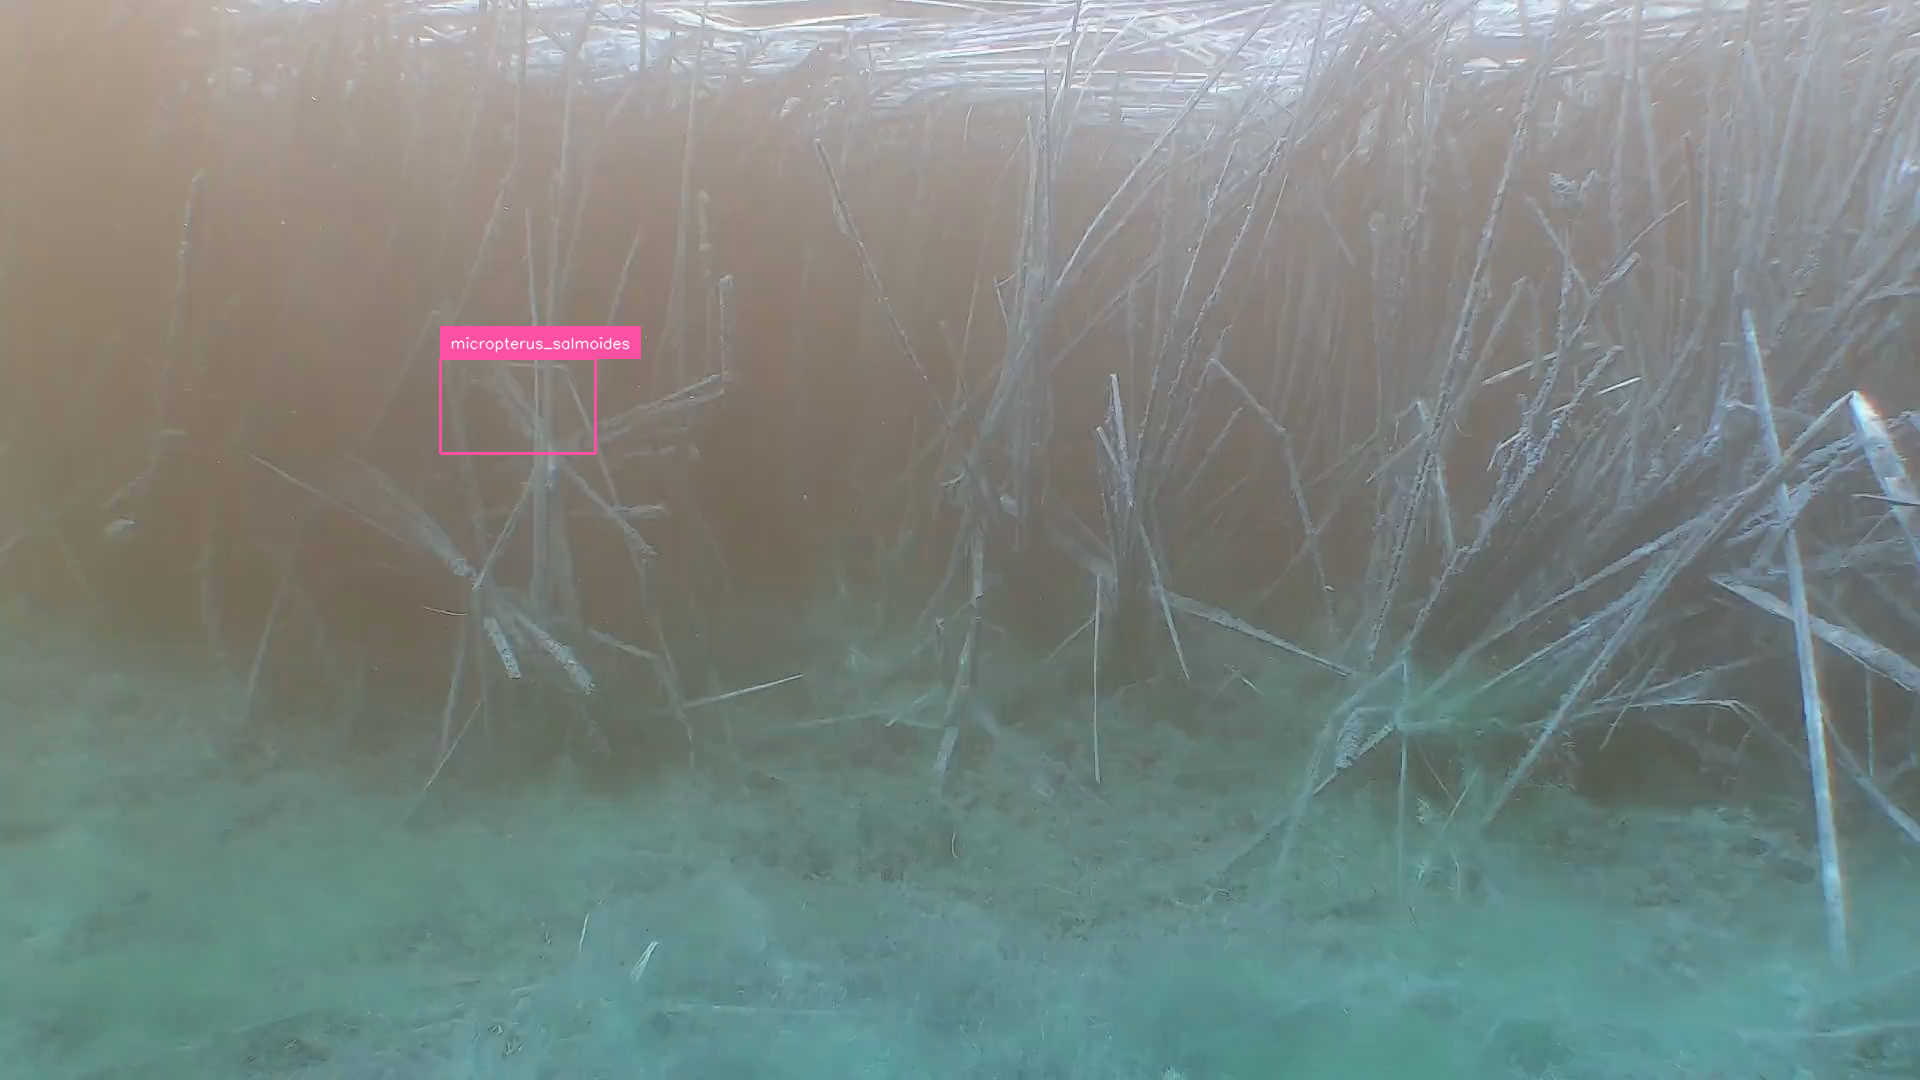
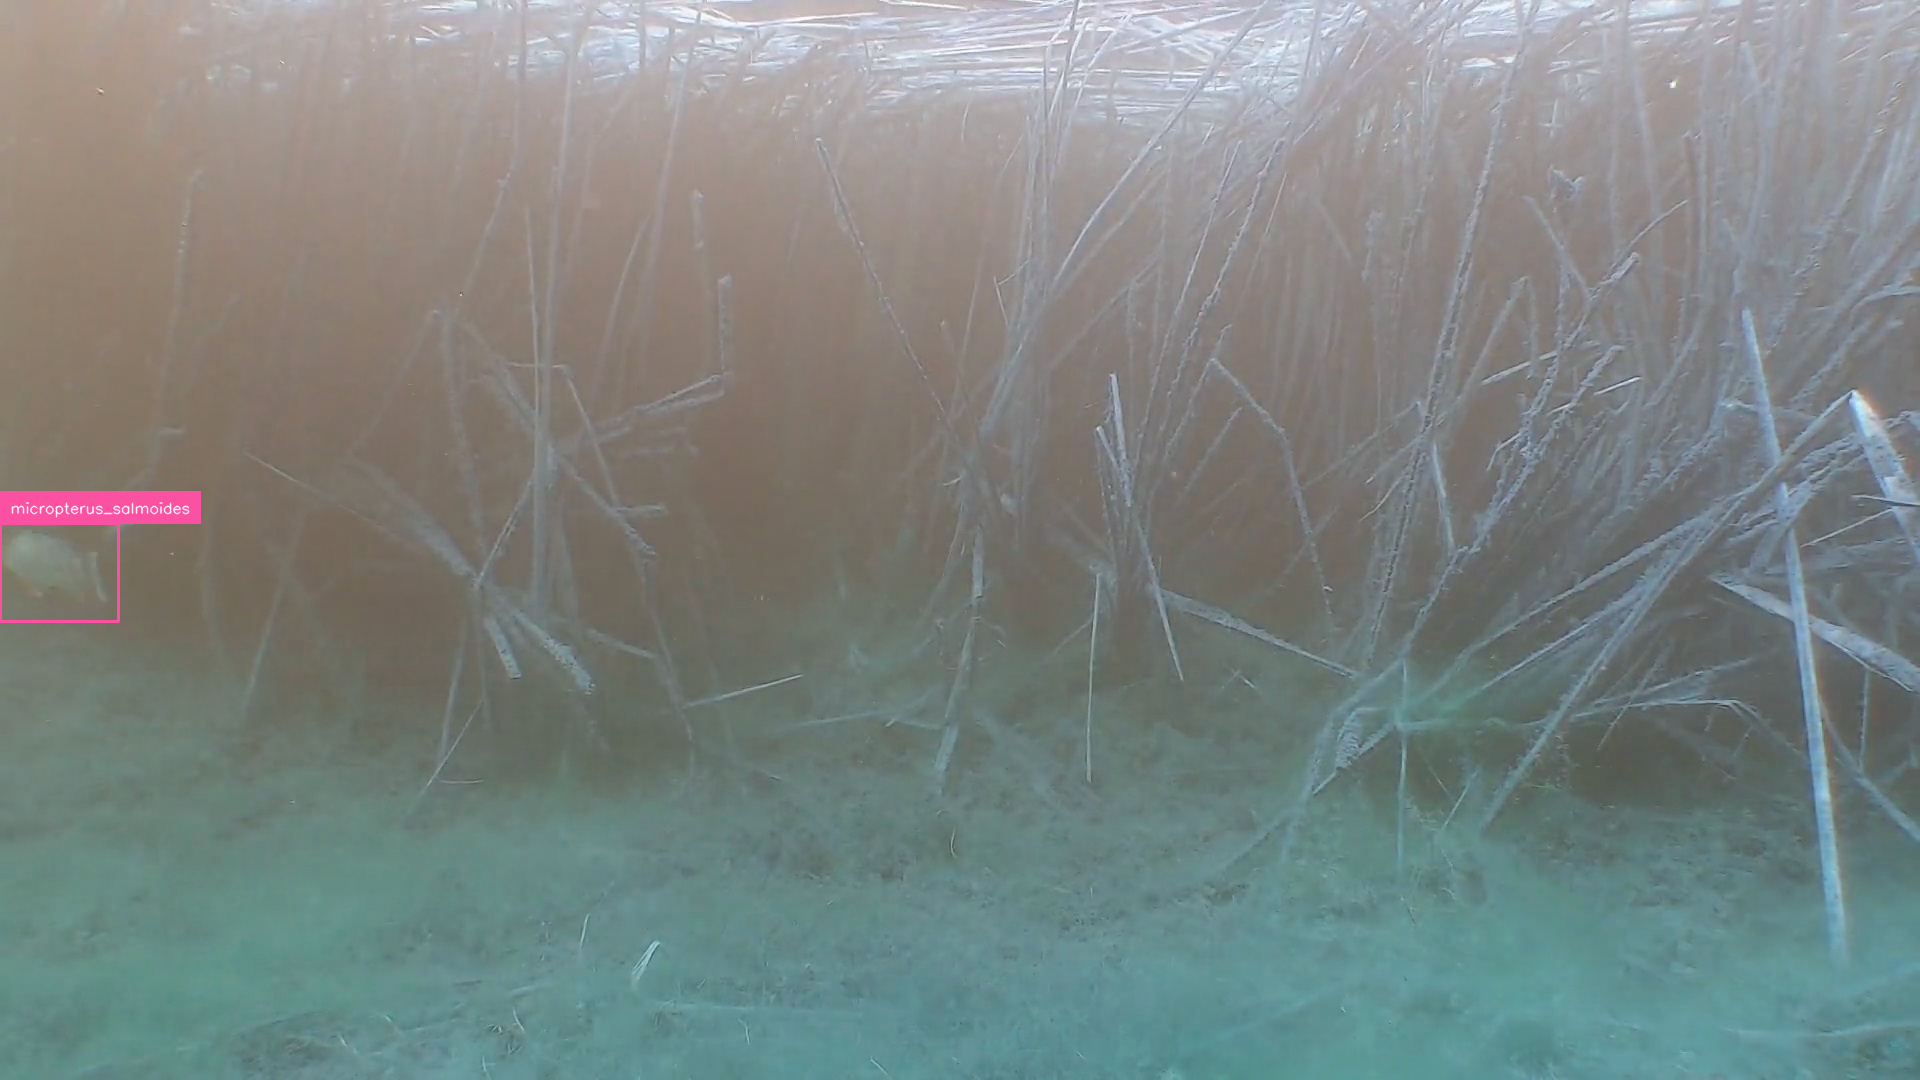
fix frame/annotation mismatch

diff --git a/data_preview/visualize_viame_fishtrack.py b/data_preview/visualize_viame_fishtrack.py
@@ -11,39 +11,72 @@ import cv2
 
 from utils import download_and_extract_zip
 
+TESTING = False
 
-class VideoFrameExtractor:
-    @staticmethod
-    def build_image_id(video_path: Path, timestamp_str: str) -> str:
-        """Generate a unique identifier for a video frame."""
-        return f"{video_path.stem}_{timestamp_str}"
 
-    @classmethod
-    def extract_frame(cls, frames_path: Path, video_path: Path, timestamp_str: str):
-        """Extract a frame from a video at the specified timestamp."""
-        frames_path.mkdir(parents=True, exist_ok=True)
+def build_image_id(video_path: Path, timestamp_str: str) -> str:
+    """Generate a unique identifier for a video frame."""
+    return f"{video_path.stem}_{timestamp_str}"
 
-        timestamp = datetime.strptime(timestamp_str, "%H:%M:%S.%f")
-        image_id = cls.build_image_id(video_path, timestamp_str)
-        output_path = frames_path / f"{image_id}.jpg"
 
-        print(f"Extracting frame from {video_path} at {timestamp}")
-
-        cap = cv2.VideoCapture(video_path)
-        cap.set(cv2.CAP_PROP_POS_MSEC, timestamp.timestamp() * 1000)
-        ret, frame = cap.read()
-        if not ret:
-            raise ValueError(f"Failed to read frame from {video_path}")
+def timestamp_to_milliseconds(timestamp_str: str) -> int:
+    """
+    Convert a timestamp string in format HH:MM:SS.ffffff to milliseconds.
+    
+    Args:
+        timestamp_str: String in format "HH:MM:SS.ffffff"
         
-        height, width, _ = frame.shape
-        cv2.imwrite(str(output_path), frame)
-        cap.release()
+    Returns:
+        Total milliseconds
+    
+    Example:
+        "00:01:49.900000" -> 109900 (milliseconds)
+    """
+    # Parse the timestamp string
+    hours, minutes, seconds = timestamp_str.split(":")
+    seconds, microseconds = seconds.split(".")
+    
+    # Convert to integers
+    hours = int(hours)
+    minutes = int(minutes)
+    seconds = int(seconds)
+    # If microseconds part has fewer than 6 digits, pad with zeros
+    microseconds = int(microseconds.ljust(6, "0"))
+    
+    # Calculate total milliseconds
+    total_milliseconds = (
+        hours * 3600 * 1000 +    # hours to ms
+        minutes * 60 * 1000 +    # minutes to ms
+        seconds * 1000 +         # seconds to ms
+        microseconds // 1000     # microseconds to ms (integer division)
+    )
+    
+    return total_milliseconds
+    
 
-        print(f"Saved frame to {output_path}")
-        return output_path, height, width
+def extract_frame(frames_path: Path, video_path: Path, timestamp_str: str, frame_id: str):
+    """Extract a frame from a video at the specified timestamp."""
+    filename = f"{frame_id}.jpg"
+    output_path = frames_path / filename
+    frames_path.mkdir(parents=True, exist_ok=True)
+
+    milliseconds = timestamp_to_milliseconds(timestamp_str)
+    print(f"Extracting frame from {video_path} at {timestamp_str}, {milliseconds} ms")
+    cap = cv2.VideoCapture(video_path)
+    cap.set(cv2.CAP_PROP_POS_MSEC, milliseconds)
+    ret, frame = cap.read()
+    if not ret:
+        raise ValueError(f"Failed to read frame from {video_path}")
+    
+    height, width, _ = frame.shape
+    cv2.imwrite(str(output_path), frame)
+    cap.release()
+
+    print(f"Saved frame to {output_path}")
+    return filename, height, width  # Return only the filename
 
 
-def viame_to_coco(camera_path: Path, output_dir: Path):
+def viame_to_coco(camera_path: Path, images_dir: Path):
     """Convert VIAME annotations to COCO format."""
     csv_path = camera_path / "annotations.viame.csv"
     video_path = camera_path / f"{camera_path.name}.mp4"
@@ -54,7 +87,7 @@ def viame_to_coco(camera_path: Path, output_dir: Path):
     # Load the CSV file - skip first row as it contains metadata
     df = pd.read_csv(csv_path, skiprows=lambda x: x in [1])
 
-    output_frames_path = output_dir / "JPEGImages"
+    output_frames_path = images_dir
     output_frames_path.mkdir(parents=True, exist_ok=True)
 
     # Initialize COCO format dictionary
@@ -71,14 +104,18 @@ def viame_to_coco(camera_path: Path, output_dir: Path):
     annotation_id = 1
 
     for index, row in df.iterrows():
+        if TESTING and index > 50:
+            # for testing purposes don't analyze full video
+            break
+        
         frame_timestamp = row["2: Video or Image Identifier"]
-        frame_id = VideoFrameExtractor.build_image_id(video_path, frame_timestamp)
+        frame_id = build_image_id(video_path, frame_timestamp)
 
         # Add image entry if we haven't seen this frame before
         if frame_id not in image_ids:
             image_ids.add(frame_id)
-            image_filename, image_height, image_width = VideoFrameExtractor.extract_frame(
-                output_frames_path, video_path, frame_timestamp
+            image_filename, image_height, image_width = extract_frame(
+                output_frames_path, video_path, frame_timestamp, frame_id
             )
             coco_data["images"].append({
                 "id": frame_id,
@@ -164,26 +201,24 @@ def visualize_dataset(dataset, num_samples=16, grid_size=(4, 4), size=(20, 12)):
 def main():
     # Dataset configuration
     dataset_shortname = "viame_fishtrack"
-    data_dir = Path("/mnt/data/tmp/") / dataset_shortname
+    data_dir = Path("/mnt/data/tmp/mfd") / dataset_shortname
     data_dir.mkdir(exist_ok=True)
     
     # Download the dataset
     data_url = "https://viame.kitware.com/api/v1/dive_dataset/export?folderIds=[%2265a1a1d1cf5a99794eaacb57%22,%2265a1a291cf5a99794eab01fb%22,%2265a1a205cf5a99794eaadbb6%22,%2265a1a223cf5a99794eaae509%22,%2265a1a20ccf5a99794eaadddd%22,%2265a1a1d1cf5a99794eaacb3d%22,%2265a1a23ecf5a99794eaaed79%22,%2265a1a20ccf5a99794eaadde0%22,%2265a1a223cf5a99794eaae50e%22,%2265a1a1d1cf5a99794eaacb52%22,%2265a1a28fcf5a99794eab01b2%22,%2265a1a22fcf5a99794eaae8c1%22,%2265a1a205cf5a99794eaadbbb%22,%2265a1a1ffcf5a99794eaad9c8%22,%2265a1a1d8cf5a99794eaacd93%22,%2265a1a1f1cf5a99794eaad548%22,%2265a1a1d1cf5a99794eaacb67%22,%2265a1a23ecf5a99794eaaed82%22,%2265a1a230cf5a99794eaae92a%22,%2265a1a244cf5a99794eaaef6b%22]"
     data_dir = download_and_extract_zip(data_dir, data_url, dataset_shortname)
     
-    # Output configuration
-    output_dir = Path("/mnt/data/dev/fish-datasets/tmp/test_CDFW-LakeCam-April-Tules3")
+    tmp_dir = Path("/mnt/data/dev/fish-datasets/tmp") / dataset_shortname
+    tmp_dir.mkdir(exist_ok=True)
     
     # Convert VIAME annotations to COCO format
     camera_path = data_dir / "CDFW-LakeCam-April-Tules3"
-    coco_data = viame_to_coco(camera_path, output_dir)
-    
-    with open(output_dir / "annotations.json", "w") as f:
+    annotations_path = tmp_dir / "annotations.json"
+    images_path = tmp_dir / "JPEGImages"
+
+    coco_data = viame_to_coco(camera_path, images_path)
+    with open(annotations_path, "w") as f:
         json.dump(coco_data, f)
-    
-    # Load and visualize the dataset
-    annotations_path = output_dir / "annotations.json"
-    images_path = output_dir / "JPEGImages"
     
     dataset = sv.DetectionDataset.from_coco(
         images_directory_path=str(images_path),
